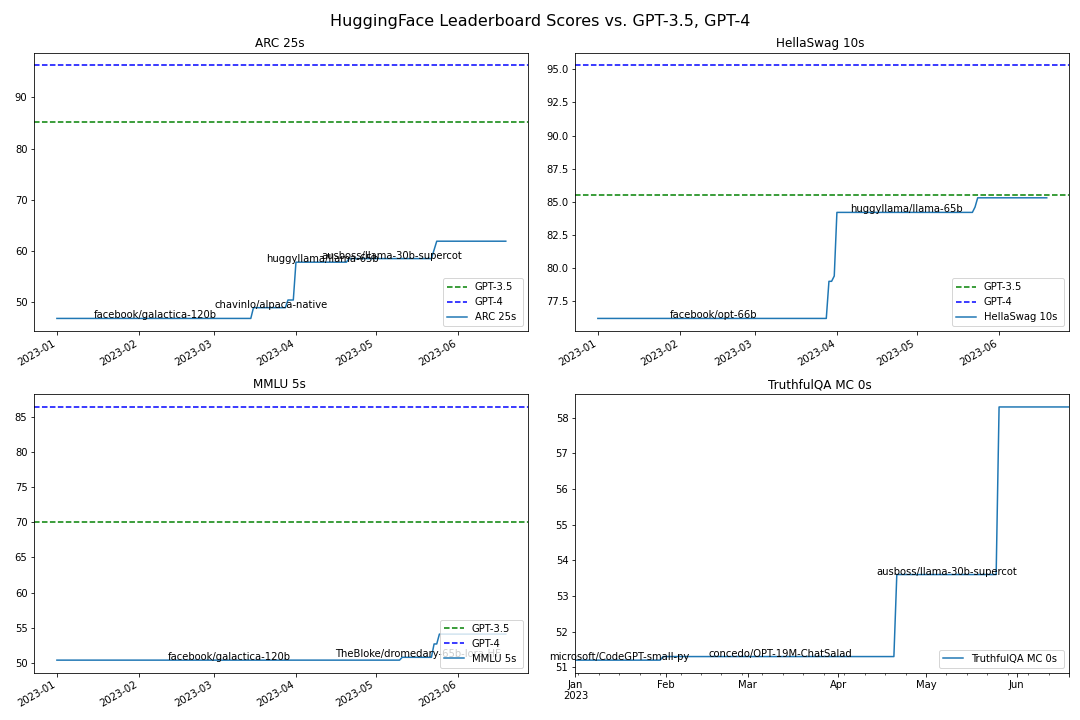
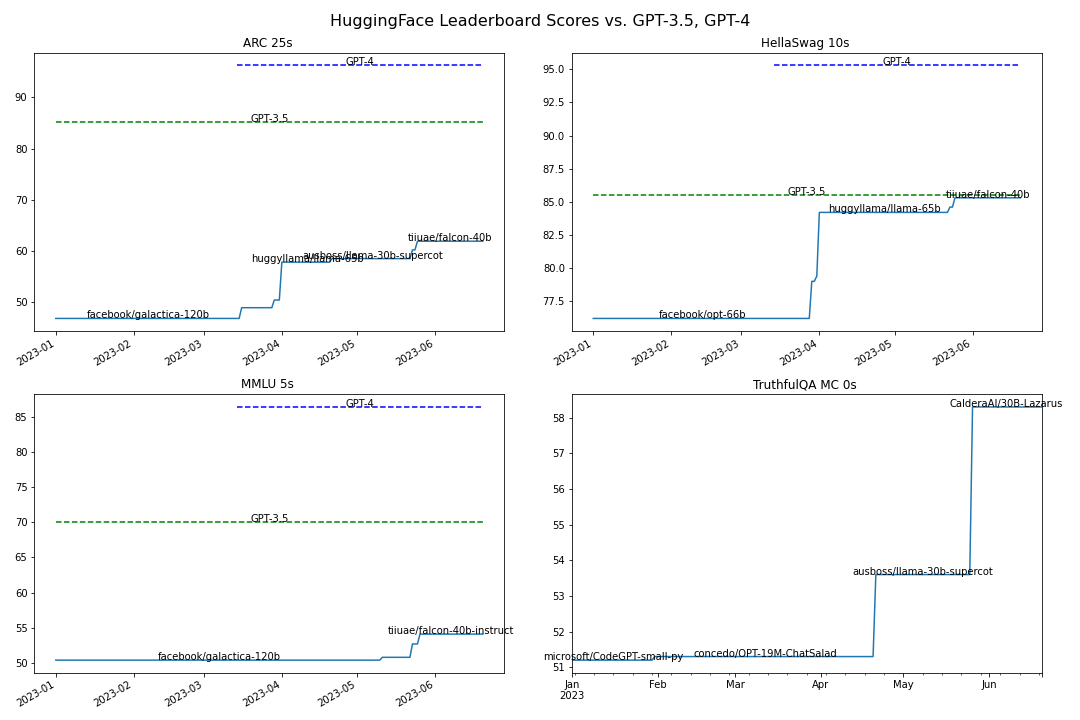
-tweaked graph

diff --git a/leaderboard_analysis.py b/leaderboard_analysis.py
@@ -8,6 +8,13 @@ import dateparser
 import matplotlib.pyplot as plt
 
 def extract_hyperlinks(file_path, sheet_name, column_name):
+    """
+    Extract hyperlinks from a specified column in an Excel file and returns a dataframe
+    containing all data from the Excel file, with hyperlinks in the specified column replaced
+    with the hyperlink targets.
+    """
+    ...
+
     # Load your workbook
     wb = load_workbook(filename=file_path)
 
@@ -50,9 +57,12 @@ def extract_hyperlinks(file_path, sheet_name, column_name):
 
     return df
 
-
 def get_page_text(url):
-    # Send a GET request to the URL
+    """
+    Sends a GET request to the GitHub commits page corresponding to the provided url,
+    and returns the text content of the page.
+    """
+
     gitURL= url + "/commits/main"
     response = requests.get(gitURL)
     
@@ -139,10 +149,9 @@ def restructure_dataframe(df, start_date):
     return df_new
 
 
-def plot_scores(df, df_gpt, label_min_days=10):
+def plot_scores(df, df_gpt, label_min_days=15):
     fig, axs = plt.subplots(2, 2, figsize=(15, 10))
     fig.suptitle('HuggingFace Leaderboard Scores vs. GPT-3.5, GPT-4', fontsize=16)
-
 
     score_cols = ['ARC 25s ', 'HellaSwag 10s ', 'MMLU 5s ', 'TruthfulQA MC 0s ']
     gpt_colors = {'GPT-3.5': 'g', 'GPT-4': 'b'}
@@ -150,7 +159,17 @@ def plot_scores(df, df_gpt, label_min_days=10):
     for ax, col in zip(axs.flat, score_cols):
         if col in df_gpt.columns:
             for gpt in df_gpt.index:
-                ax.axhline(df_gpt.at[gpt, col], color=gpt_colors[gpt], linestyle='--', label=gpt)
+                start_time = pd.to_datetime(df_gpt.at[gpt, 'startingtime'])
+                if start_time < df.index[0]:  # if the start_time is before the first date in df, adjust start_time to the first date in df
+                    start_time = df.index[0]
+                end_time = df.index[-1]  # use the last date in df as the end time
+                x = pd.date_range(start=start_time, end=end_time, freq='D')  # create a date range from start_time to end_time
+                y = [df_gpt.at[gpt, col]] * len(x)  # create a list of the score repeated for each date in x
+                ax.plot(x, y, color=gpt_colors[gpt], linestyle='--')
+
+                # Add label to the line
+                midpoint = start_time + (end_time - start_time) / 2
+                ax.text(midpoint, df_gpt.at[gpt, col], gpt, ha='center')
 
         df[col].dropna().plot(ax=ax)
         ax.set_title(col)
@@ -158,14 +177,15 @@ def plot_scores(df, df_gpt, label_min_days=10):
         # Add model name labels to horizontal lines longer than label_min_days
         prev_val = None
         prev_date = None
+        last_date = df.index[-1]  # get the last date
         for date, val in df[col].items():
             if pd.isna(val):
                 continue
             if prev_val is None:
                 prev_val = val
                 prev_date = date
-            elif val != prev_val:
-                if (date - prev_date).days >= label_min_days:
+            elif val != prev_val or date == last_date:  # check if it's the last date
+                if (date - prev_date).days >= label_min_days or date == last_date:  # add condition to label the line if it's the last date
                     # Add a label at the midpoint of the line
                     midpoint = prev_date + (date - prev_date) / 2
                     # Get closest date in the index to the midpoint
@@ -174,14 +194,17 @@ def plot_scores(df, df_gpt, label_min_days=10):
                     ax.text(midpoint, prev_val, model_name, ha='center')
                 prev_val = val
                 prev_date = date
-        ax.legend(loc='lower right')
+
     plt.tight_layout()
     plt.savefig("leaderboard_scores.png")
     plt.show()
 
 
+
+
 def create_gpt_df():
     data = {
+        'startingtime': ['2022-11-28', '2023-03-14'],
         'ARC 25s ': [85.2, 96.3],  # Replace these with actual GPT-3.5 and GPT-4 scores
         'HellaSwag 10s ': [85.5, 95.3],  # Replace these with actual GPT-3.5 and GPT-4 scores
         'MMLU 5s ': [70.0, 86.4],  # Replace these with actual GPT-3.5 and GPT-4 scores
@@ -190,11 +213,15 @@ def create_gpt_df():
     return df_gpt
 
 
+
+
 def run_leaderboard_analysis(file_path, sheet_name, column_name, start_date):
     df = extract_hyperlinks(file_path, sheet_name, column_name)
+    print(df.loc[~df['URL'].astype(str).str.contains("https:")]['Model'].unique())
     df=df.loc[df['URL'].astype(str).str.contains("https:")]
     df['text']=df['URL'].apply(get_page_text)
     df['dates'] = df.apply(pull_dates, axis=1)
+    print(df.loc[df['dates'].astype(str).str.contains("https:")]['Model'].unique())
     df=df.loc[~df['dates'].astype(str).str.contains("https:")]
     df.columns = df.columns.str.replace('[^a-zA-Z0-9\s]', '', regex=True)
     df['first_commit_date']=df['dates'].apply(standardize_dates)

diff --git a/readme.md b/readme.md
@@ -33,7 +33,8 @@ Two potential ways to expand this project are:
 
 1. Using Selenium to automatically pull the leaderboard table from the OpenAI site instead of manually copying and pasting it into an Excel file.
 
-2. Utilizing Selenium again to pull date information for the models that require interaction (clicking) on the model page before the commit histories become available.
+2. Utilizing Selenium again to pull date information for the models that require interaction (clicking) on the model page before the commit histories become available. (The models currently getting dropped are: 'llama-65b' 'llama-30b' 'bigcode/starcoderplus' 'llama-13b' 'alpaca-13b'
+ 'llama-7b' 'alessandropalla/instruct_gpt2')
 
 Please be aware that these extensions would introduce more complexity to the script and would require additional dependencies.
 
